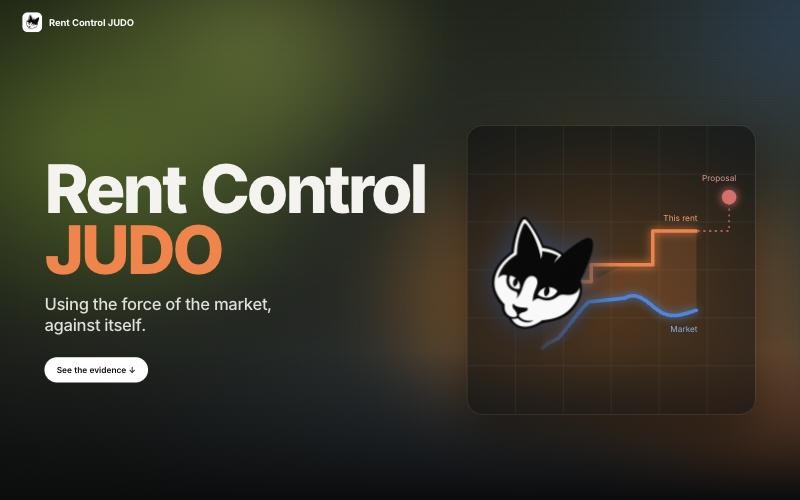
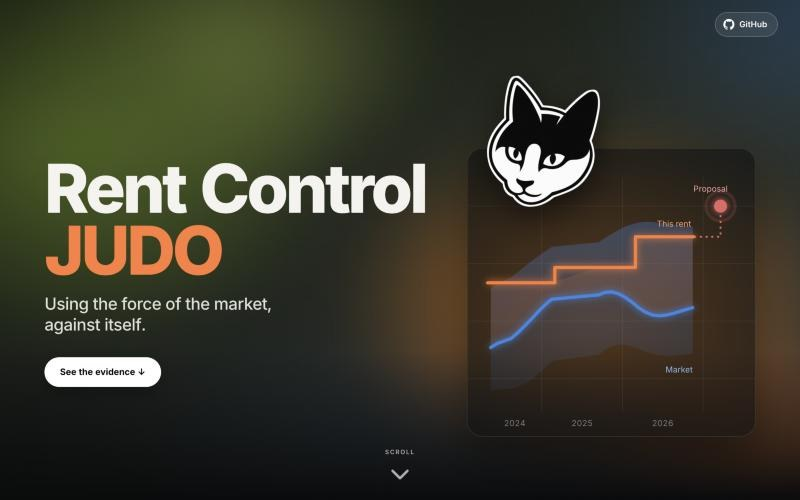
Hero: GitHub button, still mascot, scroll cue, fuller chart
- GitHub button (mark + label) top right; repeated logo and title removed
- The cat is a still, large, white-outlined sticker perched on the chart card
- Scroll cue back on desktop
- Chart: market middle-half band and median, this rent above with the gap
  shaded, red dashed step to a pulsing proposal dot, year labels; lines draw
  in on load (off under reduced motion)
- Share card, README screenshots and wording updated

diff --git a/public_page.py b/public_page.py
@@ -250,27 +250,37 @@ html{scroll-behavior:smooth}
 .jd-shade{position:absolute;inset:0;z-index:-1;pointer-events:none;
   background:linear-gradient(90deg,rgba(10,12,10,.5) 0%,rgba(10,12,10,.18) 55%,rgba(10,12,10,.05) 100%),
              linear-gradient(180deg,rgba(0,0,0,.15) 0%,transparent 30%,transparent 70%,var(--page) 100%)}
-.jd-nav{display:flex;align-items:center;justify-content:space-between;gap:16px;padding:22px clamp(16px,3vw,40px)}
-.jd-brand{display:flex;align-items:center;gap:12px;font-weight:700;font-size:17px;letter-spacing:-.01em;color:#fff;text-decoration:none;white-space:nowrap}
-.jd-brand img{width:36px;height:36px;border-radius:10px;display:block}
-.jd-pill{display:inline-flex;align-items:center;gap:8px;background:#fff;color:#0b0b0b;text-decoration:none;font-weight:600;font-size:15px;padding:12px 22px;border-radius:999px;white-space:nowrap}
-.jd-pill:focus-visible,.jd-brand:focus-visible{outline:2px solid #fff;outline-offset:3px}
+.jd-nav{display:flex;align-items:center;justify-content:flex-end;gap:16px;padding:22px clamp(16px,3vw,40px)}
+.jd-gh{display:inline-flex;align-items:center;gap:9px;color:#fff;text-decoration:none;font-weight:600;font-size:15px;padding:10px 18px 10px 14px;border-radius:999px;border:1px solid rgba(255,255,255,.28);background:rgba(255,255,255,.08);backdrop-filter:blur(8px);transition:background .2s}
+.jd-gh:hover{background:rgba(255,255,255,.18)}
+.jd-pill{display:inline-flex;align-items:center;gap:8px;background:#fff;color:#0b0b0b;text-decoration:none;font-weight:650;font-size:16px;padding:15px 28px;border-radius:999px;white-space:nowrap;box-shadow:0 10px 30px rgba(0,0,0,.25);transition:transform .2s}
+.jd-pill:hover{transform:translateY(-2px)}
+.jd-pill:focus-visible,.jd-gh:focus-visible,.jd-down:focus-visible{outline:2px solid #fff;outline-offset:3px}
 .jd-body{flex:1;display:grid;grid-template-columns:minmax(0,1.15fr) minmax(0,.85fr);align-items:center;gap:clamp(24px,4vw,64px);
   padding:clamp(24px,6vh,72px) clamp(16px,3vw,40px) clamp(56px,10vh,110px);max-width:1360px;width:100%;margin:0 auto;box-sizing:border-box}
 .jd-title{font-weight:800;font-size:clamp(52px,8.4vw,128px);line-height:.92;letter-spacing:-.045em;margin:0;text-wrap:balance}
 .jd-title .o{color:#ff7d3b;display:block}
 .jd-tag{font-size:clamp(20px,2.2vw,30px);line-height:1.25;letter-spacing:-.02em;font-weight:500;color:rgba(244,243,239,.9);margin:22px 0 0;max-width:22ch}
 .jd-ctas{display:flex;margin-top:40px}
-.jd-card{position:relative;aspect-ratio:1/1;width:100%;max-width:520px;justify-self:end;border-radius:28px;
+.jd-art{position:relative;width:100%;max-width:520px;justify-self:end;margin-top:14%}
+.jd-card{position:relative;aspect-ratio:1/1;width:100%;border-radius:28px;
   background:rgba(12,14,16,.58);border:1px solid rgba(255,255,255,.12);backdrop-filter:blur(14px);
   box-shadow:0 30px 80px rgba(0,0,0,.45);overflow:hidden}
 .jd-card svg{position:absolute;inset:0;width:100%;height:100%}
-.jd-cat{position:absolute;left:25%;top:52%;width:44%;transform:translate(-50%,-50%);filter:drop-shadow(0 0 28px rgba(57,135,229,.45)) drop-shadow(0 12px 30px rgba(0,0,0,.5));
-  animation:jdFloat 7s ease-in-out infinite}
-@keyframes jdFloat{0%,100%{transform:translate(-50%,-50%)}50%{transform:translate(-50%,-53%)}}
-@media (max-width:900px){.jd-body{grid-template-columns:1fr}.jd-card{justify-self:start;max-width:420px}}
-@media (max-width:520px){.jd-card{max-width:none}}
-@media (prefers-reduced-motion: reduce){.jd-bg,.jd-cat{animation:none}}
+.jd-cat{position:absolute;left:1%;top:-27%;width:50%;transform:rotate(-8deg);pointer-events:none;
+  filter:drop-shadow(3px 0 0 #fff) drop-shadow(-3px 0 0 #fff) drop-shadow(0 3px 0 #fff) drop-shadow(0 -3px 0 #fff) drop-shadow(0 18px 28px rgba(0,0,0,.55))}
+.jd-down{position:absolute;left:50%;bottom:20px;transform:translateX(-50%);display:flex;flex-direction:column;align-items:center;gap:4px;color:rgba(244,243,239,.7);text-decoration:none;font-size:11px;font-weight:600;letter-spacing:.16em;text-transform:uppercase}
+.jd-down svg{animation:jdBob 2.2s ease-in-out infinite}
+@keyframes jdBob{0%,100%{transform:translateY(0)}50%{transform:translateY(5px)}}
+.jd-draw{stroke-dasharray:1;stroke-dashoffset:1;animation:jdDraw 1.6s .2s cubic-bezier(.4,0,.2,1) forwards}
+@keyframes jdDraw{to{stroke-dashoffset:0}}
+.jd-fade,.jd-late,.jd-lab{opacity:0;animation:jdIn .8s forwards}.jd-fade{animation-delay:.5s}.jd-late,.jd-lab{animation-delay:1.6s}
+@keyframes jdIn{to{opacity:1}}
+.jd-pulse{transform-box:fill-box;transform-origin:center;opacity:0;animation:jdPulse 2.4s 2.2s ease-out infinite}
+@keyframes jdPulse{0%{opacity:.8;transform:scale(1)}100%{opacity:0;transform:scale(2.6)}}
+@media (max-width:900px){.jd-body{grid-template-columns:1fr}.jd-art{justify-self:center;max-width:440px;margin-top:20%}}
+@media (max-width:520px){.jd-art{max-width:none;margin-top:26%}.jd-cat{left:2%;top:-24%;width:46%}.jd-gh span{display:none}.jd-gh{padding:10px}.jd-down{display:none}}
+@media (prefers-reduced-motion: reduce){.jd-bg,.jd-down svg,.jd-pulse{animation:none}.jd-draw,.jd-fade,.jd-late,.jd-lab{animation:none;opacity:1;stroke-dashoffset:0}}
 .dash-head{display:flex;align-items:center;justify-content:space-between;gap:12px;margin:8px 0 18px;scroll-margin-top:16px}
 .dash-head h2{font-size:clamp(22px,2.6vw,30px);letter-spacing:-.035em}
 .reveal{opacity:0;transform:translateY(18px);transition:opacity .7s ease,transform .7s cubic-bezier(.2,.7,.2,1)}
@@ -283,7 +293,7 @@ html{scroll-behavior:smooth}
 <header class="jd" aria-label="Rent Control JUDO">
   <div class="jd-bg" aria-hidden="true"></div><div class="jd-mesh" aria-hidden="true"></div><div class="jd-shade" aria-hidden="true"></div>
   <nav class="jd-nav">
-    <a class="jd-brand" href="#top" id="top"><img src="logo-64.png" width="36" height="36" alt="">Rent Control JUDO</a>
+    <a class="jd-gh" id="jd-gh" href="#" aria-label="View the code on GitHub"><svg viewBox="0 0 16 16" width="20" height="20" fill="currentColor" aria-hidden="true"><path d="M8 0c4.42 0 8 3.58 8 8a8.013 8.013 0 0 1-5.45 7.59c-.4.08-.55-.17-.55-.38 0-.27.01-1.13.01-2.2 0-.75-.25-1.23-.54-1.48 1.78-.2 3.65-.88 3.65-3.95 0-.88-.31-1.59-.82-2.15.08-.2.36-1.02-.08-2.12 0 0-.67-.22-2.2.82-.64-.18-1.32-.27-2-.27-.68 0-1.36.09-2 .27-1.53-1.03-2.2-.82-2.2-.82-.44 1.1-.16 1.92-.08 2.12-.51.56-.82 1.28-.82 2.15 0 3.06 1.86 3.75 3.64 3.95-.23.2-.44.55-.51 1.07-.46.21-1.61.55-2.33-.66-.15-.24-.6-.83-1.23-.82-.67.01-.27.38.01.53.34.19.73.9.82 1.13.16.45.68 1.31 2.69.94 0 .67.01 1.3.01 1.49 0 .21-.15.45-.55.38A7.995 7.995 0 0 1 0 8c0-4.42 3.58-8 8-8Z"/></svg><span>GitHub</span></a>
   </nav>
   <div class="jd-body">
     <div>
@@ -291,11 +301,13 @@ html{scroll-behavior:smooth}
       <p class="jd-tag">Using the force of the market, against itself.</p>
       <div class="jd-ctas"><a class="jd-pill" href="#evidence">See the evidence ↓</a></div>
     </div>
-    <div class="jd-card" aria-hidden="true">
-      <svg id="jd-chart" viewBox="0 0 400 400"></svg>
+    <div class="jd-art" aria-hidden="true">
+      <div class="jd-card"><svg id="jd-chart" viewBox="0 0 400 400"></svg></div>
       <img class="jd-cat" src="logo-512.png" alt="">
     </div>
   </div>
+  <a class="jd-down" href="#evidence" aria-label="Scroll to the evidence"><span>Scroll</span>
+    <svg viewBox="0 0 24 24" width="22" height="22" fill="none" stroke="currentColor" stroke-width="2" stroke-linecap="round" stroke-linejoin="round"><path d="M6 9l6 6 6-6"/></svg></a>
 </header>
 <main>
   <div class="dash-head" id="evidence">
@@ -587,42 +599,49 @@ function byKm() {
 }
 
 function judo() {
-  // The card's chart, over time: market (blue) and this rent (orange), the gap between them shaded,
-  // and a red dashed step up to the expected proposal: a red dot at the top right.
+  const gh = $("#jd-gh"); if (D.repo) gh.href = D.repo; else gh.remove();
+  // The card's chart, over time to the expected proposal: the market's middle half (blue band) and median (blue line),
+  // this rent (orange steps) above it with the gap shaded, then a red dashed step up to the proposal (red dot).
   const svg = $("#jd-chart"); svg.innerHTML = "";
   const S = 400, T = D.trend; if (!T.length || !D.history.length) return;
-  const sm = T.map((_, i) => { let a = 0, b = 0; T.forEach((v, j) => { const k = Math.exp(-(((i - j) / 4) ** 2) / 2) * v.n; a += k * v.med; b += k; }); return a / b; });   // Gaussian smooth, weighted by lets
+  const smooth = key => T.map((_, i) => { let a = 0, b = 0; T.forEach((v, j) => { const k = Math.exp(-(((i - j) / 3.5) ** 2) / 2) * v.n; a += k * v[key]; b += k; }); return a / b; });
+  const md = smooth("med"), q1 = smooth("q1"), q3 = smooth("q3");
   const pm = D.proposed ? (D.proposed[0] + D.proposed[1]) / 2 : null;
-  const t0 = +new Date(T[0].m + "-15"), t1 = Date.now();
-  const xL = S * .26, xR = S * .80, xP = S * .91;
-  const x = t => xL + (t - t0) / (t1 - t0) * (xR - xL);
-  const vals = sm.concat(D.history.map(h => h.rent), pm ? [pm] : []);
-  const lo = Math.min(...vals) - 40, hi = Math.max(...vals) + 40, y = v => S * .82 - (v - lo) / (hi - lo) * S * .62;
+  const t0 = +new Date(T[0].m + "-01"), t1 = Date.now(), tp = t1 + 120 * 864e5;     // proposal shown ~4 months on
+  const xL = S * .07, xP = S * .88, x = t => xL + (t - t0) / (tp - t0) * (xP - xL);
+  const vals = q1.concat(q3, D.history.map(h => h.rent), pm ? [pm] : []);
+  const lo = Math.min(...vals), hi = Math.max(...vals), y = v => S * .84 - (v - lo) / (hi - lo) * S * .64;
   const rentAt = t => { let r = D.history[0].rent; D.history.forEach(h => { if (+new Date(h.from + "-01") <= t) r = h.rent; }); return r; };
   const defs = el("defs", {}, svg), f = el("filter", {id: "jdglow", filterUnits: "userSpaceOnUse", x: 0, y: 0, width: S, height: S}, defs);
-  el("feGaussianBlur", {stdDeviation: 6, result: "b"}, f); const mg = el("feMerge", {}, f); el("feMergeNode", {in: "b"}, mg); el("feMergeNode", {in: "SourceGraphic"}, mg);
-  const fade = (id, c, a1) => { const g = el("linearGradient", {id, gradientUnits: "userSpaceOnUse", x1: S * .2, x2: S * .5, y1: 0, y2: 0}, defs);
-    el("stop", {offset: 0, "stop-color": c, "stop-opacity": 0}, g); el("stop", {offset: 1, "stop-color": c, "stop-opacity": a1}, g); };
-  fade("jdB", "#3987e5", 1); fade("jdO", "#ff7d3b", 1); fade("jdW", "#ff7d3b", .16);
-  for (let i = 1; i < 6; i++) { el("line", {x1: S * i / 6, x2: S * i / 6, y1: 0, y2: S, stroke: "rgba(255,255,255,.07)"}, svg);
-    el("line", {x1: 0, x2: S, y1: S * i / 6, y2: S * i / 6, stroke: "rgba(255,255,255,.07)"}, svg); }
-  const ts = T.map(t => +new Date(t.m + "-15"));
-  const mp = ts.map((t, i) => [x(t), y(sm[i])]);
-  const d = mp.map((p, i) => (i ? "L" : "M") + p).join("");
+  el("feGaussianBlur", {stdDeviation: 5, result: "b"}, f); const mg = el("feMerge", {}, f); el("feMergeNode", {in: "b"}, mg); el("feMergeNode", {in: "SourceGraphic"}, mg);
+  const vg = el("linearGradient", {id: "jdBand", x1: 0, x2: 0, y1: 0, y2: 1}, defs);
+  el("stop", {offset: 0, "stop-color": "#3987e5", "stop-opacity": .32}, vg); el("stop", {offset: 1, "stop-color": "#3987e5", "stop-opacity": .08}, vg);
+  // faint horizontal grid and year ticks
+  for (let i = 1; i < 5; i++) el("line", {x1: 0, x2: S, y1: S * i / 5, y2: S * i / 5, stroke: "rgba(255,255,255,.06)"}, svg);
+  const year = (t, s, a) => { const e = tx(svg, x(t), S - 14, s, null, a); e.style.fill = "rgba(244,243,239,.45)"; e.setAttribute("font-size", 13); };
+  // a faint line at each 1 January; each year's label centred in its own span
+  for (let yr = new Date(t0).getFullYear(); yr <= new Date(tp).getFullYear(); yr++) {
+    const a = Math.max(t0, +new Date(yr, 0, 1)), b = Math.min(tp, +new Date(yr + 1, 0, 1));
+    if (a > t0) el("line", {x1: x(a), x2: x(a), y1: S * .1, y2: S - 34, stroke: "rgba(255,255,255,.07)"}, svg);
+    if (x(b) - x(a) > 34) year((a + b) / 2, String(yr), "middle"); }
+  const ts = T.map(t => +new Date(t.m + "-15")), P = arr => ts.map((t, i) => [x(t), y(arr[i])]);
+  const line = pts => pts.map((p, i) => (i ? "L" : "M") + p[0].toFixed(1) + "," + p[1].toFixed(1)).join("");
+  el("path", {d: line(P(q3)) + line(P(q1).reverse()).replace("M", "L") + "Z", fill: "url(#jdBand)", class: "jd-fade"}, svg);
+  el("path", {d: line(ts.map(t => [x(t), y(rentAt(t))])) + line(P(md).reverse()).replace("M", "L") + "Z", fill: "#ff7d3b", "fill-opacity": .14, class: "jd-fade"}, svg);
+  el("path", {d: line(P(md)), fill: "none", stroke: "#3987e5", "stroke-width": 4.5, filter: "url(#jdglow)", "stroke-linecap": "round", "stroke-linejoin": "round", pathLength: 1, class: "jd-draw"}, svg);
   let r = `M${x(t0)},${y(rentAt(t0))}`;
   D.history.forEach(h => { const t = +new Date(h.from + "-01"); if (t > t0 && t < t1) r += `L${x(t)},${y(rentAt(t - 1))}L${x(t)},${y(h.rent)}`; });
-  r += `L${xR},${y(rentAt(t1))}`;
-  el("path", {d: ts.map((t, i) => (i ? "L" : "M") + x(t) + "," + y(rentAt(t))).join("") + ts.map((t, i) => "L" + x(t) + "," + y(sm[i])).reverse().join("") + "Z", fill: "url(#jdW)"}, svg);
-  el("path", {d, fill: "none", stroke: "url(#jdB)", "stroke-width": 5, filter: "url(#jdglow)", "stroke-linecap": "round", "stroke-linejoin": "round"}, svg);
-  el("path", {d: r, fill: "none", stroke: "url(#jdO)", "stroke-width": 5, filter: "url(#jdglow)", "stroke-linejoin": "round"}, svg);
-  const lab = (x0, y0, t, c) => { const e = tx(svg, x0, y0, t, null, "end"); e.style.fill = c; e.setAttribute("font-size", 17); e.setAttribute("font-weight", 600); };
+  r += `L${x(t1)},${y(rentAt(t1))}`;
+  el("path", {d: r, fill: "none", stroke: "#ff7d3b", "stroke-width": 4.5, filter: "url(#jdglow)", "stroke-linejoin": "round", "stroke-linecap": "round", pathLength: 1, class: "jd-draw"}, svg);
+  const lab = (x0, y0, t, c, a = "end") => { const e = tx(svg, x0, y0, t, "jd-lab", a); e.style.fill = c; e.setAttribute("font-size", 16); e.setAttribute("font-weight", 650); };
   if (pm) {
-    el("path", {d: `M${xR},${y(rentAt(t1))}L${xP},${y(rentAt(t1))}L${xP},${y(pm)}`, fill: "none", stroke: "#e66767", "stroke-width": 2, "stroke-dasharray": "3 5"}, svg);
-    el("circle", {cx: xP, cy: y(pm), r: 10, fill: "#e66767", filter: "url(#jdglow)"}, svg);
-    lab(xP + 10, y(pm) - 22, "Proposal", "#f09090");
+    el("path", {d: `M${x(t1)},${y(rentAt(t1))}L${xP},${y(rentAt(t1))}L${xP},${y(pm)}`, fill: "none", stroke: "#e66767", "stroke-width": 2.5, "stroke-dasharray": "3 5", class: "jd-late"}, svg);
+    el("circle", {cx: xP, cy: y(pm), r: 9, fill: "none", stroke: "#e66767", "stroke-width": 2, class: "jd-pulse"}, svg);
+    el("circle", {cx: xP, cy: y(pm), r: 9, fill: "#e66767", filter: "url(#jdglow)", class: "jd-late"}, svg);
+    lab(xP + 10, y(pm) - 20, "Proposal", "#f3a0a0");
   }
-  lab(xR, y(rentAt(t1)) - 14, "This rent", "#ffa070");
-  lab(xR, y(sm[sm.length - 1]) + 30, "Market", "#7fb2f0");
+  lab(x(t1) - 4, y(rentAt(t1)) - 14, "This rent", "#ffa070");
+  lab(x(ts[ts.length - 1]), y(q1[q1.length - 1]) + 26, "Market", "#8dbcf3");
 }
 
 function reveals() {

diff --git a/README.md b/README.md
@@ -11,7 +11,7 @@
 <p align="center"><a href="https://rent-evidence-demo.pages.dev"><b>Live demo →</b></a></p>
 
 <p align="center">
-  <a href="https://rent-evidence-demo.pages.dev"><img src="docs/screenshots/hero-dark.jpg" width="820" alt="Rent Control JUDO: the cat logo beside a glowing chart over time, the example rent above the market and the expected proposal as a red dot"></a>
+  <a href="https://rent-evidence-demo.pages.dev"><img src="docs/screenshots/hero-dark.jpg" width="820" alt="Rent Control JUDO: the cat mascot perched on a glowing chart over time, the example rent above the market and the expected proposal as a red dot"></a>
 </p>
 
 Since 1 May 2026 (the Renters' Rights Act 2025), a private landlord in England can only raise the rent with a
@@ -27,8 +27,8 @@ copy so others can see how it works.
 
 ## The public dashboard
 
-A full-screen opening section (the cat beside the live market and rent lines over time, the expected proposal a red
-dot at the top right) scrolls smoothly down to the evidence: one number up front (how far the rent sits above the local median), three headline figures (live listings,
+A full-screen opening section (the cat mascot perched on a live chart: the market's middle half and median, the
+example rent above it, the expected proposal a red dot at the top right) scrolls smoothly down to the evidence: one number up front (how far the rent sits above the local median), three headline figures (live listings,
 agreed lets analysed, recent comparables), and four charts: how many recent lets were cheaper, a grid showing
 the rent above the median at every distance and period (the group behind the headline outlined), agreed rents
 over time against the official ONS average, and every let by distance. Hover anything for the figures behind it.
